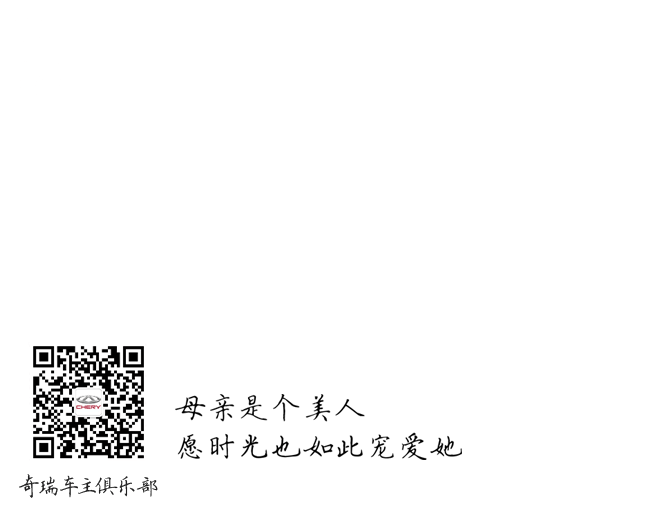
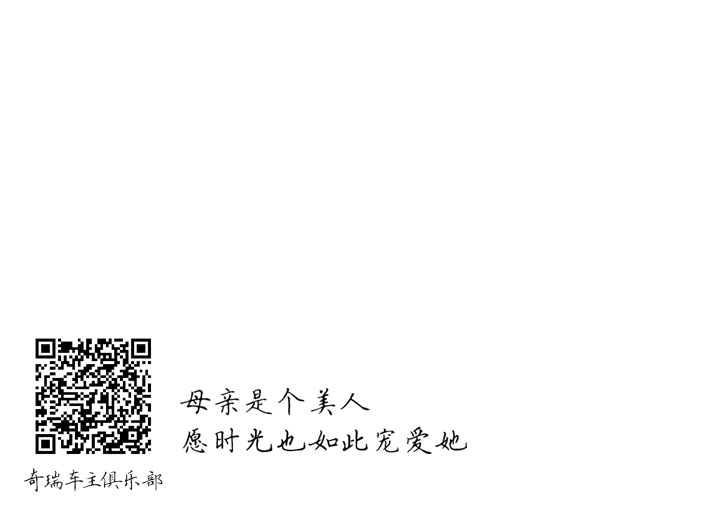
change base img

Changed region(s): [[0.031, 0.6535, 0.7132, 0.9802]]

diff --git a/src/pages/PicResult.vue b/src/pages/PicResult.vue
@@ -10,7 +10,7 @@
     <img src="../assets/picResult/pic_05.png" class="myHome" @click="toMyHome">
     <img src="../assets/picResult/xiangkuangBG.png" class="xiangkuangBG">
 
-    <img hidden src="../assets/picResult/pic_05(2).png" ref="base" class="base">
+    <img hidden src="../assets/picResult/pic_07.png" ref="base" class="base">
     <img hidden :src="motherPic" ref="mother">
     <img hidden :src="selfPic" ref="self">
     <canvas hidden width="1098" height="764" ref="canvas"/>
@@ -50,7 +50,7 @@
 
         ctx.drawImage(mother, ...imgXYWH, ...motherXYWH)
         ctx.drawImage(self, ...imgXYWH, ...selfXYWH)
-        ctx.drawImage(base, 0, 0, 645, 506, 0, 0, 974, 764)
+        ctx.drawImage(base, 0, 0, 726, 505, 0, 0, 1098, 764)
         ctx.filter = 'saturate(60%) grayscale(50%) brightness(120%)'
         this.setPicResult(canvas.toDataURL())
         // result.loadOnce(() => {
